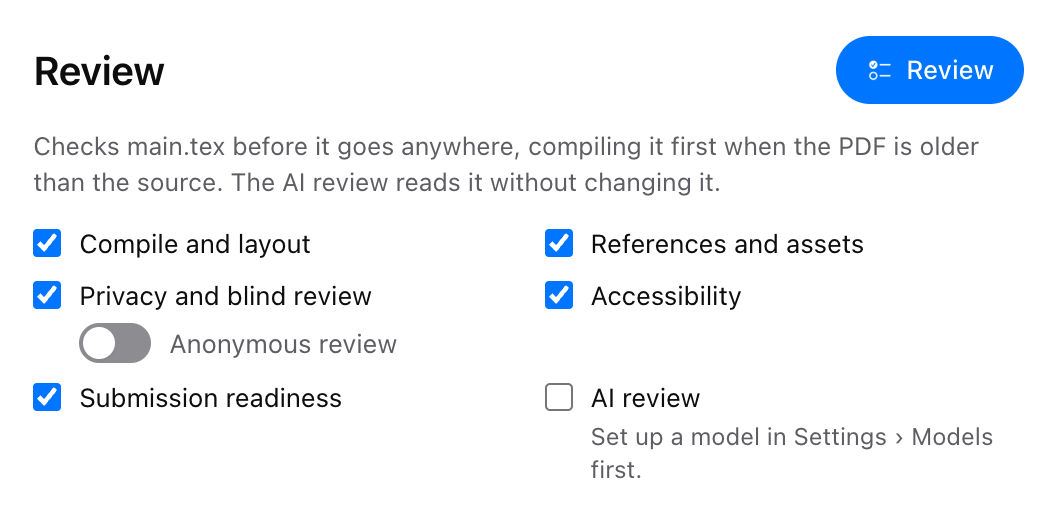
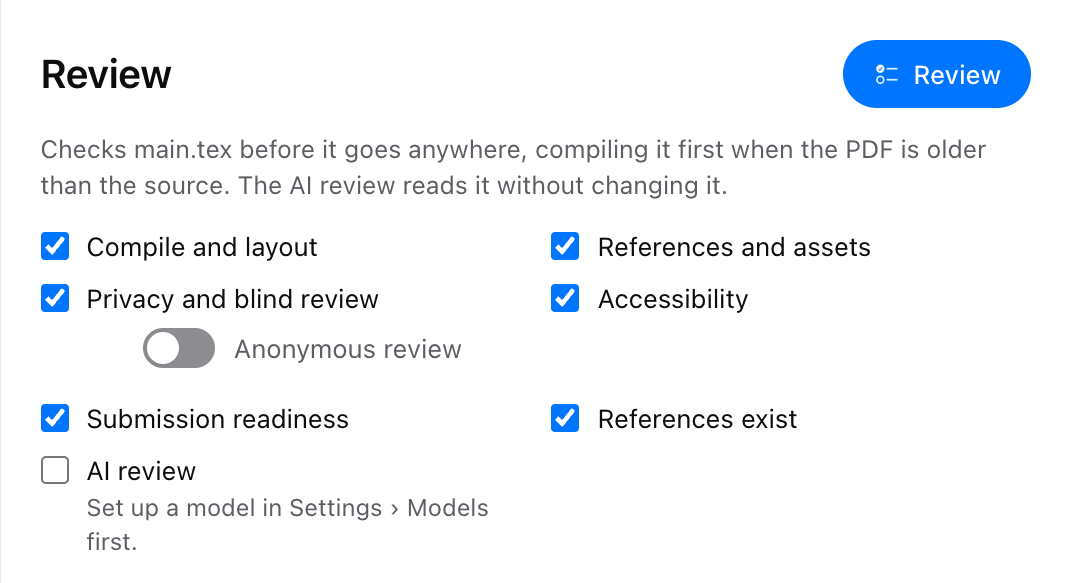
Handbook: References exist, read_source and the claims ledger, with their pictures
Review's options retaken with the new tick; two new pictures: References exist
with its evidence, and Claims checked in Research. The recorded rating reads
plainly in the agent's step card.

diff --git a/apps/backend/src/services/agentService.js b/apps/backend/src/services/agentService.js
@@ -292,7 +292,7 @@ const OWN_TOOLS = [
     readOnly: false,
     run: async (ctx, input) => {
       const row = await recordClaim(ctx.project, input, { checkPath: ctx.path });
-      return `Recorded: ${row.file}:${row.line} is ${row.rating}${row.read ? `, the quote found in the ${row.read.kind}${row.read.page ? ` on page ${row.read.page}` : ''} of ${row.read.where}` : ''}.`;
+      return `Recorded: ${row.file}:${row.line} is ${{ partly: 'partly supported', 'needs-source': 'in need of a source', 'not-checkable': 'not checkable' }[row.rating] || row.rating}${row.read ? `, the quote found in the ${row.read.kind}${row.read.page ? ` on page ${row.read.page}` : ''} of ${row.read.where}` : ''}.`;
     },
     show: (answer) => ({ text: answer })
   },
